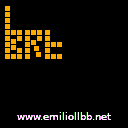
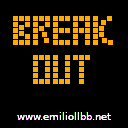
Add title screen

Changed region(s): [[0.0312, 0.0312, 0.9062, 0.6562]]

diff --git a/main.c b/main.c
@@ -3,6 +3,7 @@
 #include <system.h>
 #include <glyph.h>
 #include "bin/font.h"
+#include "bin/title.h"
 
 /* Procedure definitions */
 void initGame(void);
@@ -20,6 +21,7 @@ void check_collisions(void);
 void checkBottomCols(void);
 void checkTopCols(void);
 void updateScore(void);
+void displayTitle(void);
 int main(void);
 
 /* Game Data */
@@ -301,8 +303,14 @@ void updateScore() {
 	printBCD(80, 0, font, BLACK, PINK_FLAMINGO, score);
 }
 
+void displayTitle() {
+    render_image(title);
+    waitStart();
+}
 
 int main(void){
+    displayTitle();   
+    
     // Init game
     initGame();
     
